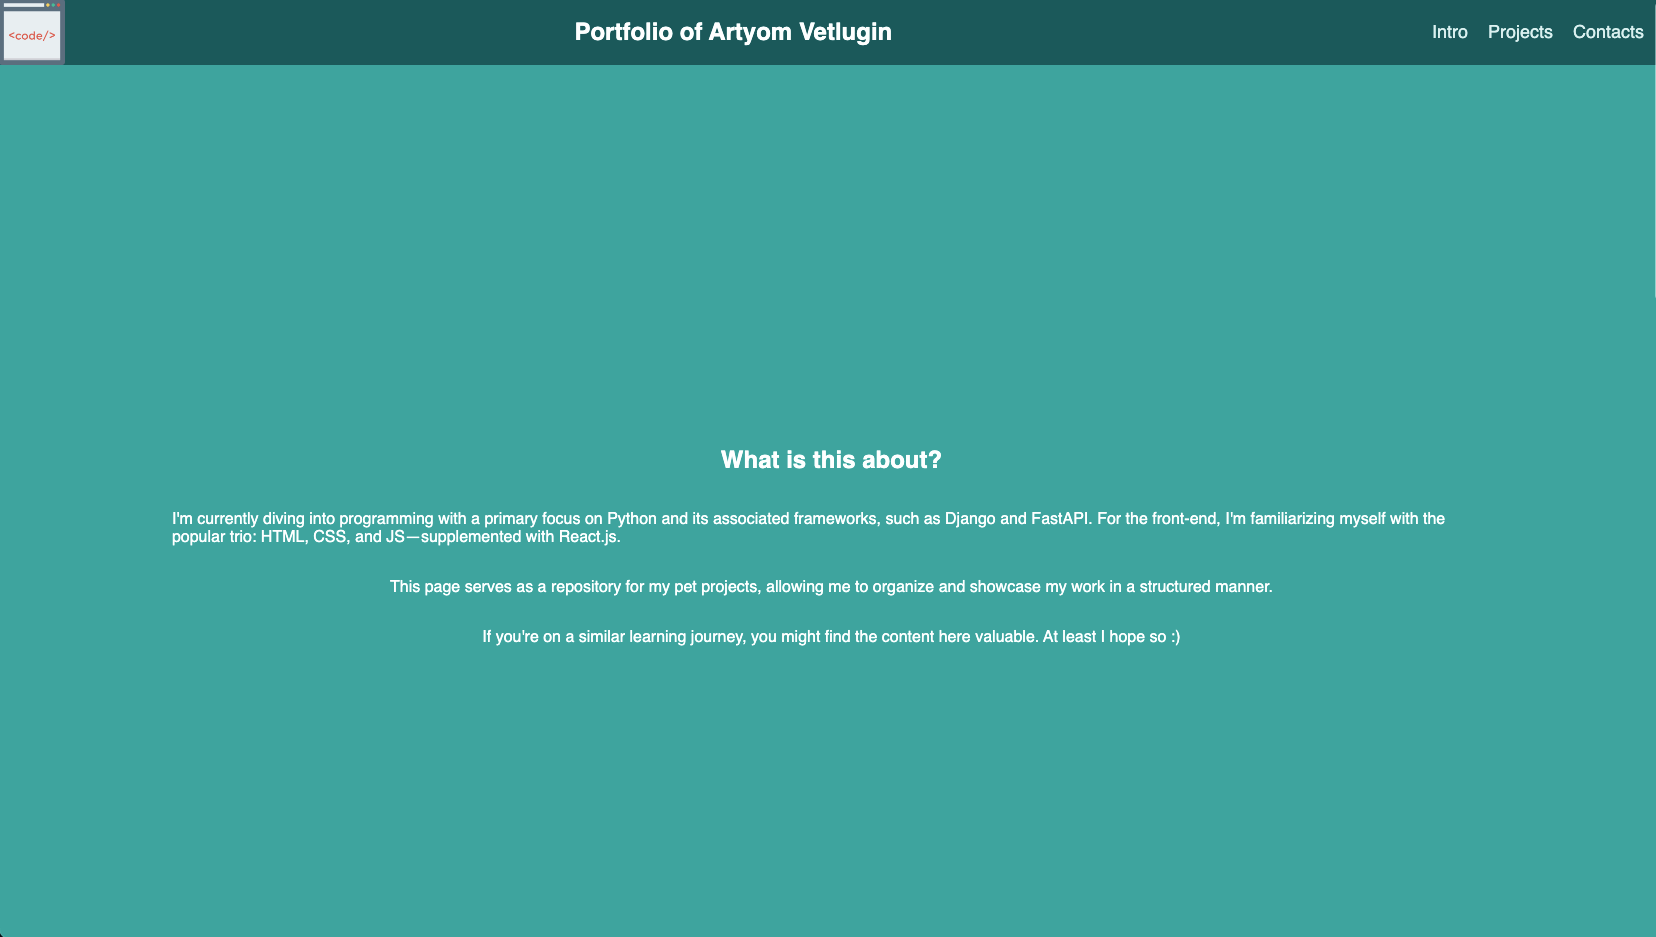
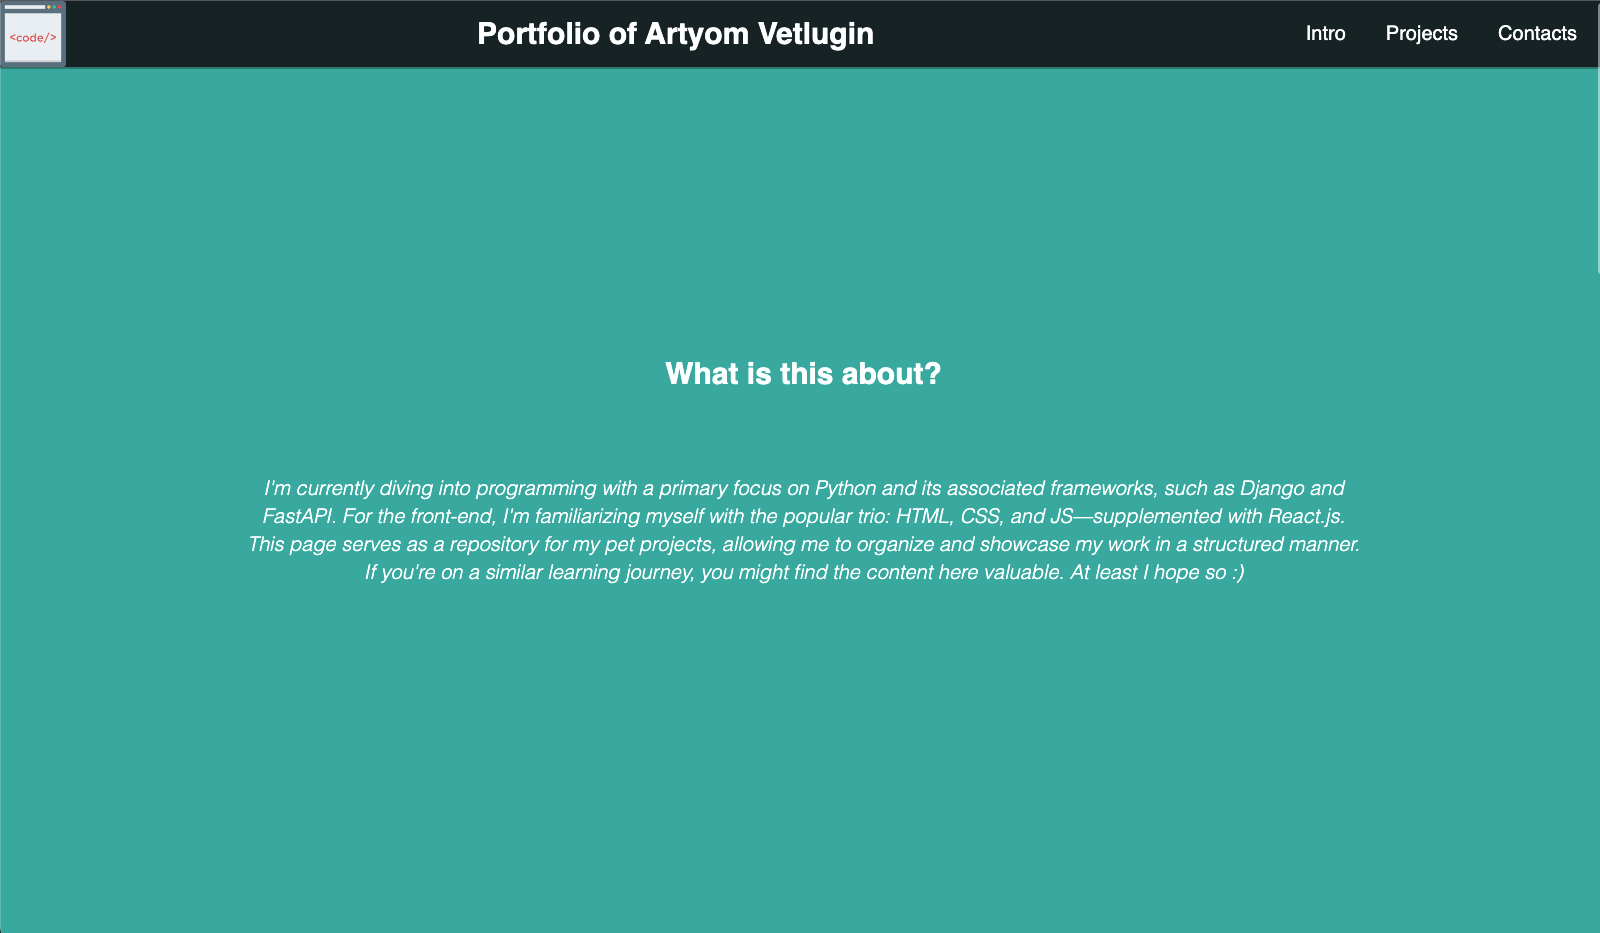
adjusted projects grid

Changed region(s): [[0.0938, 0.4662, 0.875, 0.6838], [0.0, 0.0, 1.0, 0.0932], [0.4062, 0.373, 0.5938, 0.4352]]

diff --git a/index.html b/index.html
@@ -28,35 +28,37 @@
                 <p>If you're on a similar learning journey, you might find the content here valuable. At least I hope so :)</p>
             </section>
             <section id="projects">
-                <h2>Here is the list of what I've done so far</h2>
+                <h2>Here is a list of the projects I've completed so far:</h2>
                 <div class="grid">
                     <div class="project-card">
-                        <a class="project-github-link" href="https://github.com/artyom-vetlugin/my_portfolio">This portfolio</a>
+                        <a class="project-github-link" href="https://github.com/artyom-vetlugin/my_portfolio" target="_blank">This portfolio</a>
                         <p class="project-tech-stack">HTML, CSS</p>
-                        <div class="project-image-container">
-                            <img class="project-image" src="static/images/portfolio-screen.png" alt="screenshot ot budget tracker app" />
-                        </div>
+                        <img class="project-image" src="static/images/portfolio-screen.png" alt="screenshot ot budget tracker app" />
                     </div>
                     <div class="project-card">
-                        <a class="project-github-link" href="https://github.com/artyom-vetlugin/VetBotGPT">Telegram bot with ChatGPT integration</a>
+                        <a class="project-github-link" href="https://github.com/artyom-vetlugin/VetBotGPT" target="_blank">Telegram bot with ChatGPT integration</a>
                         <p class="project-tech-stack">Python, OpenAI API, GCP</p>
-                        <div class="project-image-container">
                             <img class="project-image" src="static/images/tg-bot-screen.png" alt="screenshot ot chat with Telegram bot" />
-                        </div>
                     </div>
                     <div class="project-card">
-                        <a class="project-github-link" href="https://github.com/artyom-vetlugin/DjangoBudgetTracker">Budget tracker</a>
+                        <a class="project-github-link" href="https://github.com/artyom-vetlugin/DjangoBudgetTracker" target="_blank">Budget tracker</a>
                         <p class="project-tech-stack">Python, Django (+Bootstrap, Chart.js), PostgreSQL, Docker, GCP</p>
-                        <div class="project-image-container">
-                            <img class="project-image" src="static/images/budget-app-screen.png" alt="screenshot ot budget tracker app" />
-                        </div>
+                        <img class="project-image" src="static/images/budget-app-screen.png" alt="screenshot ot budget tracker app" />
                     </div>
                     <div class="project-card">
-                        <a class="project-github-link" href="https://github.com/artyom-vetlugin/">TBD</a>
+                        <a class="project-github-link" href="https://github.com/artyom-vetlugin/" target="_blank">TBD</a>
                         <p class="project-tech-stack">TBD stack</p>
-                        <div class="project-image-container tbd">
-                            <img class="project-image tbd" src="static/images/TBD.png" alt="TBD image" />
-                        </div>
+                        <img class="project-image tbd" src="static/images/TBD.png" alt="TBD image" />
+                    </div>
+                    <div class="project-card">
+                        <a class="project-github-link" href="https://github.com/artyom-vetlugin/" target="_blank">TBD</a>
+                        <p class="project-tech-stack">TBD stack</p>
+                        <img class="project-image tbd" src="static/images/TBD.png" alt="TBD image" />
+                    </div>
+                    <div class="project-card">
+                        <a class="project-github-link" href="https://github.com/artyom-vetlugin/" target="_blank">TBD</a>
+                        <p class="project-tech-stack">TBD stack</p>
+                        <img class="project-image tbd" src="static/images/TBD.png" alt="TBD image" />
                     </div>
                 </div>
             </section>

diff --git a/css/styles.css b/css/styles.css
@@ -1,6 +1,7 @@
 /* custom variables for main colours */
 :root {
     --turq-dark: #116466;
+    --turq-darkest: #17252A;
     --turq-light: #3AAFA9; 
     --white-font: #FEFFFF;
 }
@@ -20,7 +21,6 @@
 
 html {
     box-sizing: border-box;
-
     /* Set font size for easy rem calculations
     * default document font size = 16px, 1rem = 16px, 100% = 16px
     * (100% / 16px) * 10 = 62.5%, 1rem = 10px, 62.5% = 10px
@@ -65,7 +65,7 @@ img {
     top: 0;
     left: 0;
     z-index: 1000;
-    background-color: var(--turq-dark);
+    background-color: var(--turq-darkest);
     width: 100vw;
     display: flex;
     align-items: center;
@@ -109,40 +109,67 @@ nav a:hover {
     background-color: var(--turq-light);
 }
 
-section {
+/* section {
     display: flex;
     padding-top: 8vh;
     flex-direction: column;
     justify-content: center;
     align-items: center;
     height: 100vh;
+} */
+
+/* intro section */
+#intro {
+    display: flex;
+    flex-direction: column;
+    justify-content: center;
+    align-items: center;
+    width: 100%;
+    height: 100vh;
 }
 
-#intro {
-    align-items: center;
+#intro h2 {
+    padding-bottom: 5%;
 }
 
 #intro p {
-    padding-left: 50px;
-    padding-right: 50px;
+    padding: 0 5%;
     max-width: 80%;
-    text-align: left;
+    font-size: 2rem;
+    font-weight: 200;
+    text-align: center;
     font-style: italic;
+}
+
+/* projects section */
+#projects {
+    text-align: center;
+    padding: 10rem 2rem;
+    background: var(--turq-dark);
+
+    /* width: 100%; */
+}
+
+#projects h2 {
+    margin: 0 auto 6rem auto;
 }
 
 #projects .grid {
     display: grid;
-    grid-template-columns: repeat(auto-fill, minmax(200px, 1fr));
-    gap: 20px;
-    padding: 20px;
+    /* grid-template-columns: repeat(auto-fill, minmax(320px, 1fr)); */
+    grid-template-columns: repeat(auto-fill, minmax(320px, 1fr));
+    grid-gap: 4rem;
+    max-width: 1280px;
     width: 90vw;
+    margin: 0 auto;
+    margin-bottom: 6rem;
 }
 
 .project-card {
-    background-color: var(--turq-dark);
-    padding: 30px;
+    background-color: var(--turq-darkest);
+    padding: 5px;
     border-radius: 10px;
-    box-shadow: 0 4px 8px rgba(0, 0, 0, 0.1);
+    box-shadow: 1px 1px 2px rgba(0, 0, 0, 0.5);
     transition: transform 0.2s;
     z-index: 1;
     display: flex;
@@ -156,56 +183,52 @@ section {
 }
 
 .project-card a {
+    height: 15%;
     color: var(--white-font);
     text-decoration: none;
+
+
+    font-size: 2rem;
+    padding: 2rem 0.5rem;
 }
 
 .project-card a:hover {
-    text-decoration: underline;
+    background-color: var(--turq-light);
 }
 
 .project-card:active {
     z-index: 10;
 }
 
+
 .project-tech-stack {
     font-family: "Courier New", Courier, monospace;
     font-size: small;
-}
-
-.project-image-container {
-    position: relative;
-    width: 100%;
-    padding-bottom: 56.25%; 
-    overflow: hidden;
-}
-
-.project-image-container:active:not(.tbd) {
-    overflow: visible;
-    transform: scale(5) translateX(30%);
-    transition: transform 0.5s;
+    height: 15%;
+    padding: 0.5rem 0;
 }
 
 .project-image {
     border-radius: 5px;
-    position: absolute;
-    top: 0;
-    left: 0;
+    border: 1px solid var(--turq-dark);
     width: 100%;
-    height: 100%;
+    height: 70%;
     object-fit: cover;
 }
 
-.project-image.tbd {
-    object-fit: scale-down;
-}
-
 .project-image:active:not(.tbd) {
-    object-fit: contain;
+    border: 0;
+    transform: scale(1.5) translateX(20%);
+    transition: transform 0.5s;
+    overflow: visible;
 }
 
 #contacts {
-    height: 80vh;
+    height: 85vh;
+}
+
+#contacts h2 {
+    padding-top: 8%;
 }
 
 #contacts a {
@@ -214,6 +237,12 @@ section {
     display: flex;
     justify-content: center;
     align-items: center;
+    padding: 20px 5px;
+}
+
+#contacts p {
+    max-width: 20%;
+    margin: 0 auto;
 }
 
 #contacts p a:hover {
@@ -225,7 +254,7 @@ section {
 }
 
 #email_image:hover {
-    width: 30%;
+    width: 25%;
 }
 
 footer {
